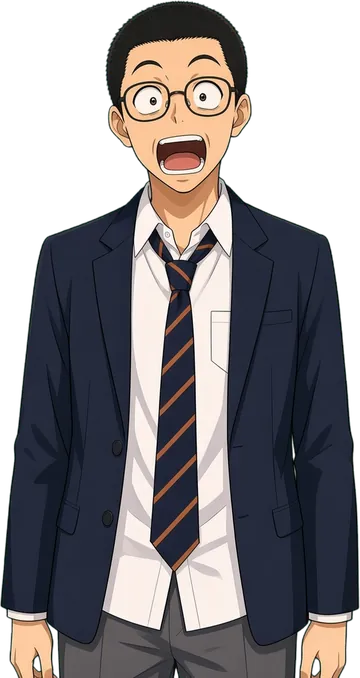
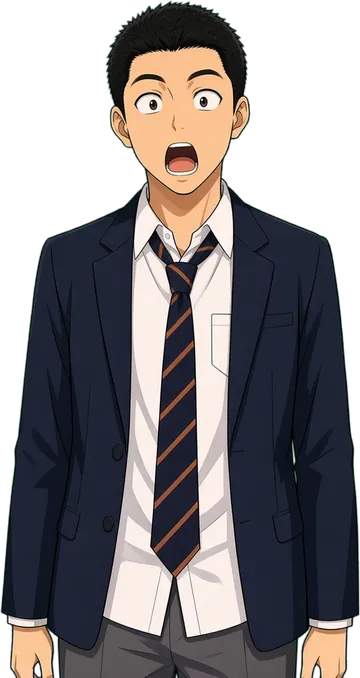
v1.7.4: 井上 暸の立ち絵を描き直し（参考写真の顔・髪型、スポーツ刈り・メガネなし、制服そのまま、6表情）

diff --git a/public/changelog.html b/public/changelog.html
@@ -1,5 +1,5 @@
 <!doctype html><html lang="ja"><head><meta charset="utf-8"><meta name="viewport" content="width=device-width,initial-scale=1"><title>更新履歴 | 青春クロニクル ～君と過ごした1000日間～</title><link rel="icon" href="./icon.svg">
 <style>body{font-family:"Hiragino Sans","Noto Sans JP",system-ui,sans-serif;background:#f6f1e9;color:#2b2622;max-width:720px;margin:0 auto;padding:24px 18px 60px;line-height:1.85}h1{font-size:1.5rem}h2{font-size:1.1rem;color:#2f6f73;margin-top:2em}a{color:#2f6f73}.ph{background:#fff3cd;padding:2px 6px;border-radius:4px}</style></head>
-<body><p><a href="./">← ゲームに戻る</a></p><h1>更新履歴</h1><h2>2026-10-31（v1.7.3）</h2><ul><li>芽衣・健太・井上 暸に立ち絵がつきました（各6表情：通常・笑顔・悲しみ・驚き・怒り・照れ）。話している場面で表示され、台詞に合わせて表情が変わります</li><li>話し手が切り替わった直後に、前の人物の髪が重なって見えることがある不具合を修正</li></ul><h2>2026-10-31（v1.7.2）</h2><ul><li>悪友・田中大吾の名前を「井上 暸（いのうえ・りょう）」に変更（台詞・設定の表示も変更、名前が出る台詞は声も録り直し）</li><li>ボイスで「澪（みお）」が「もお」のように聞こえる問題を修正：人名の読みを指定して、名前が出る台詞を録り直し（澪・氷室ほか約240行）</li></ul><h2>2026-10-31（v1.7.1）</h2><ul><li>田中大吾にボイスがつきました（109行、ElevenLabs のAI音声）。設定に田中の音量を追加</li></ul><h2>2026-10-31（v1.7）</h2><ul><li>新キャラ・田中大吾が登場：主人公の悪友で自称「恋愛研究会」会長。ボケ倒すけど根はいいやつ。健太との3人の場面を含む27本、卒業式やエンディングにも登場（声はまだなし・端末の読み上げ）</li><li>健太をイケメンで相談に乗ってくれる親友に：相談の場面5本を追加、プロローグ・バレンタイン・卒業式の台詞を追加（新しい台詞にもボイスつき）</li><li>噂や爆弾の情報を教えてくれる健太の役割は従来どおり</li><li>1周のプレイ時間の目安が約3.8時間から約4.2時間に</li></ul><h2>2026-10-31（v1.6）</h2><ul><li>ヒロイン9人・芽衣・健太・真鍋先生の台詞にボイスがつきました（約2,240行。ElevenLabs で生成したAI音声）</li><li>主人公の名前は文字では表示され、音声では名前を呼ばない言い回しになります</li><li>設定に「ボイスON」と、芽衣・健太・真鍋先生の音量を追加</li><li>地の文とその他の人物は、これまでどおり端末内蔵の読み上げです</li></ul><h2>2026-10-31（v1.5）</h2><ul><li>主人公の妹・芽衣（めい）が登場：家での場面37本（1年目は中学3年の受験生、2年目に星見ヶ丘学園へ入学）。誕生日、初詣、受験、クリスマス、卒業式の送辞など</li><li>約9週ごとに「芽衣の恋愛相談」：気になる子の様子（好感度の目安・爆弾の気配・しばらく話していない子）を教えてくれます</li><li>一部のエンディングに芽衣が登場</li><li>1周のプレイ時間の目安が約3.4時間から約3.8時間に</li></ul><h2>2026-10-31（v1.4）</h2><ul><li>シナリオを大幅に追加：学校生活の日常シーン113本（行事・季節・友人とのひととき）、ヒロイン9人のサイドイベント27本（各3話）、デート先15か所の到着・別れの描写、卒業式の場面を拡張</li><li>1周のプレイ時間の目安が約2.3時間から約3.4時間に</li><li>日常シーンやヒロインから来るサイドイベントは「会いに行った」扱いにならないように（放っておくと爆弾が点く仕組みは従来どおり）</li></ul><h2>2026-10-31（v1.3）</h2><ul><li>主題歌を提供音源（ボーカル入り）に変更。タイトル画面の「🎵 主題歌」で再生・停止・ループ、歌詞表示の切り替え。エンディングでも流れます</li></ul><h2>2026-10-31（v1.2）</h2><ul><li>立ち絵を高解像度化（PC 640px幅／スマホ 360px幅）、縁取りを除去、凛の髪型を統一</li><li>全ヒロインに驚き・怒り・照れの表情を追加（計6表情）</li><li>告白・エンディング・夏祭りデートに一枚絵CGを追加</li><li>BGMを強化（リバーブ、対旋律、フィル入りドラム、ステレオ定位）、主題歌のメロディを作り直し（インストゥルメンタル）</li><li>タイトル画面・場面転換・告白シーンの演出を追加</li><li>BGMの音量・帯域バランスを調整（低音を抑え、メロディを明瞭に）</li></ul><h2>2026-10-31（v1.1）</h2><ul><li>動く背景イラスト16種（季節・天気・時間帯で桜／雨／雪／落ち葉／蛍のエフェクト、視差、色調）</li><li>ヒロイン9人の立ち絵（通常・笑顔・悲しみの3表情）</li><li>場面別BGM6曲と主題歌「千日のプレリュード」（オリジナル・インストゥルメンタル、歌詞表示つき）</li><li>サイドイベント18本を追加</li></ul><h2>2026-10-31</h2><p>旧作に代わり、恋愛学園シミュレーション『青春クロニクル』として作り直しました。</p>
+<body><p><a href="./">← ゲームに戻る</a></p><h1>更新履歴</h1><h2>2026-10-31（v1.7.4）</h2><ul><li>井上 暸の立ち絵を描き直しました（スポーツ刈り・太い眉・落ち着いた顔立ちに変更、メガネなし。制服はそのまま、6表情すべて差し替え）</li></ul><h2>2026-10-31（v1.7.3）</h2><ul><li>芽衣・健太・井上 暸に立ち絵がつきました（各6表情：通常・笑顔・悲しみ・驚き・怒り・照れ）。話している場面で表示され、台詞に合わせて表情が変わります</li><li>話し手が切り替わった直後に、前の人物の髪が重なって見えることがある不具合を修正</li></ul><h2>2026-10-31（v1.7.2）</h2><ul><li>悪友・田中大吾の名前を「井上 暸（いのうえ・りょう）」に変更（台詞・設定の表示も変更、名前が出る台詞は声も録り直し）</li><li>ボイスで「澪（みお）」が「もお」のように聞こえる問題を修正：人名の読みを指定して、名前が出る台詞を録り直し（澪・氷室ほか約240行）</li></ul><h2>2026-10-31（v1.7.1）</h2><ul><li>田中大吾にボイスがつきました（109行、ElevenLabs のAI音声）。設定に田中の音量を追加</li></ul><h2>2026-10-31（v1.7）</h2><ul><li>新キャラ・田中大吾が登場：主人公の悪友で自称「恋愛研究会」会長。ボケ倒すけど根はいいやつ。健太との3人の場面を含む27本、卒業式やエンディングにも登場（声はまだなし・端末の読み上げ）</li><li>健太をイケメンで相談に乗ってくれる親友に：相談の場面5本を追加、プロローグ・バレンタイン・卒業式の台詞を追加（新しい台詞にもボイスつき）</li><li>噂や爆弾の情報を教えてくれる健太の役割は従来どおり</li><li>1周のプレイ時間の目安が約3.8時間から約4.2時間に</li></ul><h2>2026-10-31（v1.6）</h2><ul><li>ヒロイン9人・芽衣・健太・真鍋先生の台詞にボイスがつきました（約2,240行。ElevenLabs で生成したAI音声）</li><li>主人公の名前は文字では表示され、音声では名前を呼ばない言い回しになります</li><li>設定に「ボイスON」と、芽衣・健太・真鍋先生の音量を追加</li><li>地の文とその他の人物は、これまでどおり端末内蔵の読み上げです</li></ul><h2>2026-10-31（v1.5）</h2><ul><li>主人公の妹・芽衣（めい）が登場：家での場面37本（1年目は中学3年の受験生、2年目に星見ヶ丘学園へ入学）。誕生日、初詣、受験、クリスマス、卒業式の送辞など</li><li>約9週ごとに「芽衣の恋愛相談」：気になる子の様子（好感度の目安・爆弾の気配・しばらく話していない子）を教えてくれます</li><li>一部のエンディングに芽衣が登場</li><li>1周のプレイ時間の目安が約3.4時間から約3.8時間に</li></ul><h2>2026-10-31（v1.4）</h2><ul><li>シナリオを大幅に追加：学校生活の日常シーン113本（行事・季節・友人とのひととき）、ヒロイン9人のサイドイベント27本（各3話）、デート先15か所の到着・別れの描写、卒業式の場面を拡張</li><li>1周のプレイ時間の目安が約2.3時間から約3.4時間に</li><li>日常シーンやヒロインから来るサイドイベントは「会いに行った」扱いにならないように（放っておくと爆弾が点く仕組みは従来どおり）</li></ul><h2>2026-10-31（v1.3）</h2><ul><li>主題歌を提供音源（ボーカル入り）に変更。タイトル画面の「🎵 主題歌」で再生・停止・ループ、歌詞表示の切り替え。エンディングでも流れます</li></ul><h2>2026-10-31（v1.2）</h2><ul><li>立ち絵を高解像度化（PC 640px幅／スマホ 360px幅）、縁取りを除去、凛の髪型を統一</li><li>全ヒロインに驚き・怒り・照れの表情を追加（計6表情）</li><li>告白・エンディング・夏祭りデートに一枚絵CGを追加</li><li>BGMを強化（リバーブ、対旋律、フィル入りドラム、ステレオ定位）、主題歌のメロディを作り直し（インストゥルメンタル）</li><li>タイトル画面・場面転換・告白シーンの演出を追加</li><li>BGMの音量・帯域バランスを調整（低音を抑え、メロディを明瞭に）</li></ul><h2>2026-10-31（v1.1）</h2><ul><li>動く背景イラスト16種（季節・天気・時間帯で桜／雨／雪／落ち葉／蛍のエフェクト、視差、色調）</li><li>ヒロイン9人の立ち絵（通常・笑顔・悲しみの3表情）</li><li>場面別BGM6曲と主題歌「千日のプレリュード」（オリジナル・インストゥルメンタル、歌詞表示つき）</li><li>サイドイベント18本を追加</li></ul><h2>2026-10-31</h2><p>旧作に代わり、恋愛学園シミュレーション『青春クロニクル』として作り直しました。</p>
 <h2>v0.3.0</h2><ul><li>文章を短く：話し手のアイコンと吹き出し、選択肢アイコンとリスク／リターンのヒント、「くわしく」で続きを表示</li><li>手ごたえ：数値の増減が浮かんで見える、バーとお金が動く、大きな出来事では画面が揺れる・光る、年替わりの演出、効果音（初期設定はオフ）</li><li>ドラマ：過去の選択が返ってくる「ECHO」の全画面カード、号外の見出し、人生ごとの「夢」とメーター、ライバル・初恋・謎の手紙などの連作イベント、どんでん返し</li><li>落ち着いた年はワンタップで進む。端末の「視差効果を減らす」設定に従う。セーブ形式v3（旧セーブは自動で移行）</li></ul><h2>v0.2.0</h2><ul><li>オリジナルイラスト18点を追加（タイトル、カテゴリ別の場面、人生の振り返り）</li></ul><h2>v0.1.0（MVP）</h2><ul><li>初回公開版：人生シミュレーション本体、114種の出来事、26種の職業、残響システム、世代継承、各画面、セーブのエクスポート/インポート</li></ul>
 <hr><p style="font-size:.8rem"><a href="./about.html">このゲームについて</a>・<a href="./how-to-play.html">遊び方</a>・<a href="./faq.html">FAQ</a>・<a href="./changelog.html">更新履歴</a>・<a href="./privacy.html">プライバシーポリシー</a>・<a href="./terms.html">利用規約</a></p></body></html>
